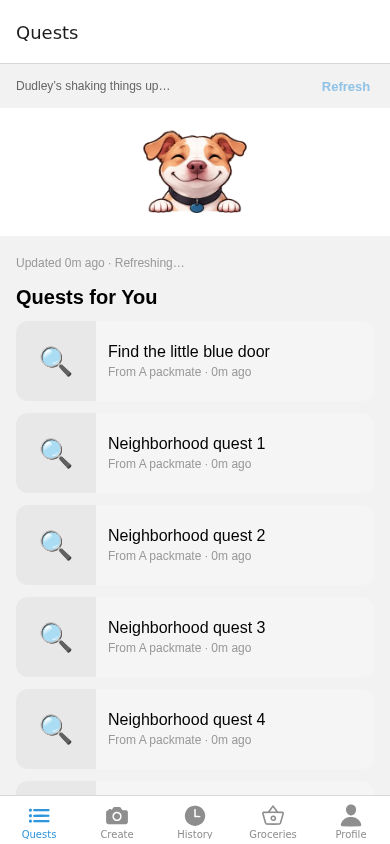
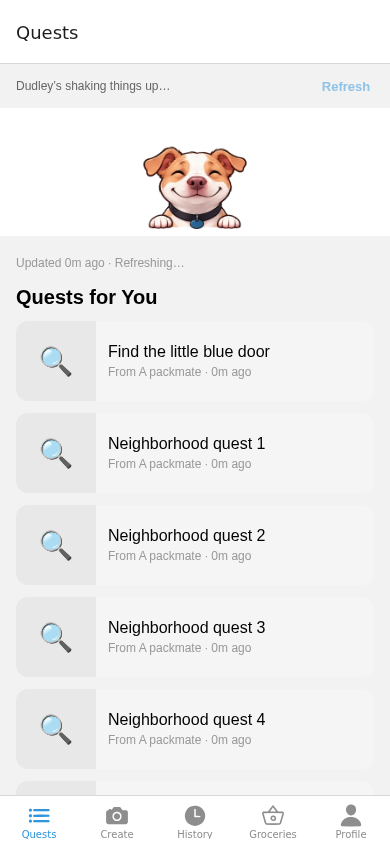
Anchor Dudley to the list edge so his paws rest on it at full pull

Changed region(s): [[0.3692, 0.154, 0.6462, 0.2773]]

diff --git a/components/dudley/DudleyRefresh.tsx b/components/dudley/DudleyRefresh.tsx
@@ -138,8 +138,9 @@ export function DudleyRefresh({ onRefresh, disabled = false, hidden = false, ges
         </Pressable>
       </View>}
       <Animated.View testID="dudley-refresh-reveal" pointerEvents="none" style={[styles.reveal, { height, backgroundColor: c.background }]}>
-        {/* Dudley climbs and grows while the list slides down, so he rises out from behind its edge. */}
-        <Animated.View style={{ position: 'absolute', alignSelf: 'center', top: height.interpolate({ inputRange: [0, 96, 128, 164], outputRange: [48, 8, 0, -8], extrapolate: 'clamp' }) }}>
+        {/* Dudley climbs and grows while the list slides down, so he rises out from behind its edge;
+            once fully out his paws ride on the list edge like a shelf. */}
+        <Animated.View style={{ position: 'absolute', alignSelf: 'center', bottom: height.interpolate({ inputRange: [0, 128], outputRange: [-160, 0], extrapolate: 'clamp' }) }}>
           <Animated.View testID={`dudley-refresh-frame-${frame}`} style={{ width: SIZE, height: SIZE, overflow: 'hidden', transform: [
             { translateY: pop.interpolate({ inputRange: [0, 1], outputRange: [0, -14] }) },
             { scale: Animated.multiply(
